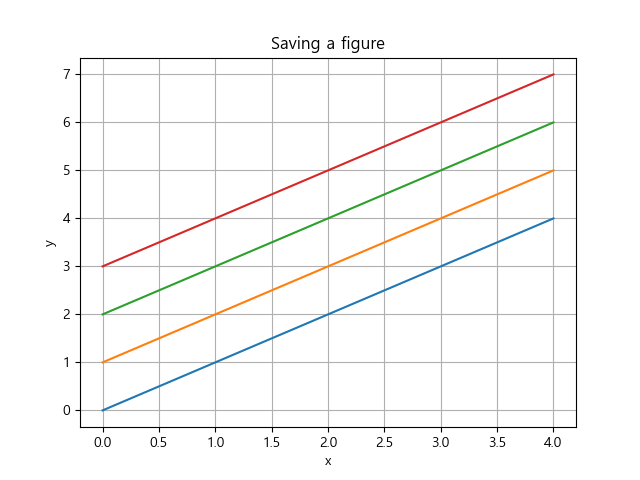
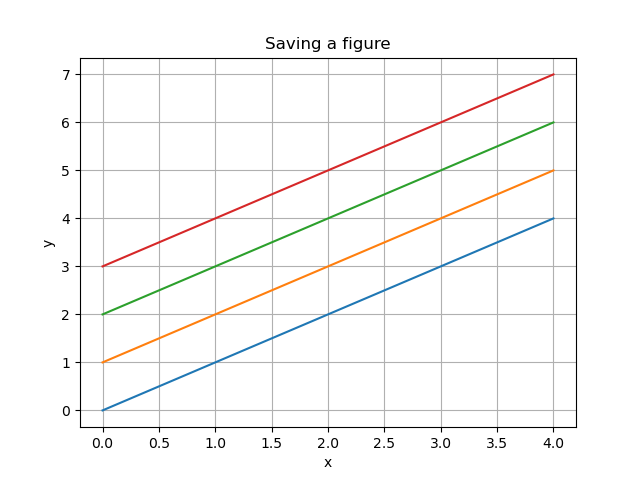
211125 python

diff --git a/ch15_matplotlib/ex10_savefig.py b/ch15_matplotlib/ex10_savefig.py
@@ -23,8 +23,8 @@ plt.xlabel('x')
 plt.ylabel('y')
 plt.title('Saving a figure')
 
-# 그래프를 이미지 파일로 저장. dpi는 100으로 설정
-plt.savefig('d:\dev\workspace\python\ch15_matplotlib\saveFigTest1.png', dpi=100)
+# 그래프를 이미지 파일로 저장. dpi는 100으로 설정(해상도)
+plt.savefig('/Users/iwonmin/Desktop/python/ch15_matplotlib/saveFigTest1.png', dpi=100)
 plt.show()
 
 
@@ -37,5 +37,5 @@ plt.pie(result, labels=fruit, autopct='%.1f%%', startangle=90,
         counterclock=False, explode=explode_value, shadow=True)
 
 # 그래프를 이미지 파일로 저장. dpi는 200으로 설정
-plt.savefig('d:\dev\workspace\python\ch15_matplotlib\saveFigTest2.png', dpi=200)
+plt.savefig('/Users/iwonmin/Desktop/python/ch15_matplotlib/saveFigTest2.png', dpi=200)
 plt.show()

diff --git a/ch15_matplotlib/ex11_pandas_line.py b/ch15_matplotlib/ex11_pandas_line.py
@@ -1,5 +1,8 @@
+import matplotlib
 import pandas as pd
 import matplotlib.pyplot as plt
+matplotlib.rcParams['font.family'] = 'AppleGothic'   # '맑은 고딕'으로 설정
+matplotlib.rcParams['axes.unicode_minus'] = False
 
 s1 = pd.Series([1,2,3,4,5,6,7,8,9,10])
 print(s1)
@@ -43,7 +46,7 @@ s2.plot(grid=True)
 plt.show()
 
 
-df_rain = pd.read_csv('D:\dev\workspace\python\ch14_numpy\sea_rain1.csv', index_col="연도" )
+df_rain = pd.read_csv('/Users/iwonmin/Desktop/python/ch14_numpy/sea_rain1.csv', index_col="연도" )
 print(df_rain)
 '''
            동해       남해       서해       전체

diff --git a/ch15_matplotlib/ex06_scatter.py b/ch15_matplotlib/ex06_scatter.py
@@ -33,7 +33,7 @@ lon = [126.97, 126.70, 127.38, 128.60, 129.31, 129.07, 126.85]
 # 인구 밀도(명/km^2): 2017년 통계청 자료
 pop_den = [16154, 2751, 2839, 2790, 1099, 4454, 2995]
 
-size = np.array(pop_den) * 0.2 # 마커의 크기 지정 
+size = np.array(pop_den) * 0.2 # 마커의 크기 지정 / 인구밀도에 비례하기 마커 크기 설정
 colors = ['r', 'g', 'b', 'c', 'm', 'k', 'y'] # 마커의 컬러 지정
 
 plt.scatter(lon, lat, s=size, c=colors, alpha=0.5)

diff --git a/ch15_matplotlib/ex14_pandas_hist.py b/ch15_matplotlib/ex14_pandas_hist.py
@@ -2,7 +2,7 @@ import matplotlib
 import matplotlib.pyplot as plt
 import pandas as pd
 
-matplotlib.rcParams['font.family'] = 'Malgun Gothic'   # '맑은 고딕'으로 설정
+matplotlib.rcParams['font.family'] = 'AppleGothic'   # '맑은 고딕'으로 설정
 matplotlib.rcParams['axes.unicode_minus'] = False
 
 math = [76,82,84,83,90,86,85,92,72,71,100,87,81,76,94,78,81,60,79,69,74,87,82,68,79]

diff --git a/ch15_matplotlib/ex12_pandas_scatter.py b/ch15_matplotlib/ex12_pandas_scatter.py
@@ -2,7 +2,7 @@ import matplotlib
 import matplotlib.pyplot as plt
 import pandas as pd
 
-matplotlib.rcParams['font.family'] = 'Malgun Gothic'   # '맑은 고딕'으로 설정
+matplotlib.rcParams['font.family'] = 'AppleGothic'   # '맑은 고딕'으로 설정
 matplotlib.rcParams['axes.unicode_minus'] = False
 
 temperature = [25.2, 27.4, 22.9, 26.2, 29.5, 33.1, 30.4, 36.1, 34.4, 29.1]

diff --git a/ch15_matplotlib/ex15_pandas_pie.py b/ch15_matplotlib/ex15_pandas_pie.py
@@ -2,7 +2,7 @@ import matplotlib
 import matplotlib.pyplot as plt
 import pandas as pd
 
-matplotlib.rcParams['font.family'] = 'Malgun Gothic'   # '맑은 고딕'으로 설정
+matplotlib.rcParams['font.family'] = 'AppleGothic'   # '맑은 고딕'으로 설정
 matplotlib.rcParams['axes.unicode_minus'] = False
 
 fruit = ['사과', '바나나', '딸기', '오렌지', '포도']

diff --git a/ch15_matplotlib/ex13_pandas_bar.py b/ch15_matplotlib/ex13_pandas_bar.py
@@ -2,7 +2,7 @@ import matplotlib
 import matplotlib.pyplot as plt
 import pandas as pd
 
-matplotlib.rcParams['font.family'] = 'Malgun Gothic'   # '맑은 고딕'으로 설정
+matplotlib.rcParams['font.family'] = 'AppleGothic'   # '맑은 고딕'으로 설정
 matplotlib.rcParams['axes.unicode_minus'] = False
 
 grade_num = [5, 14, 12, 3]
